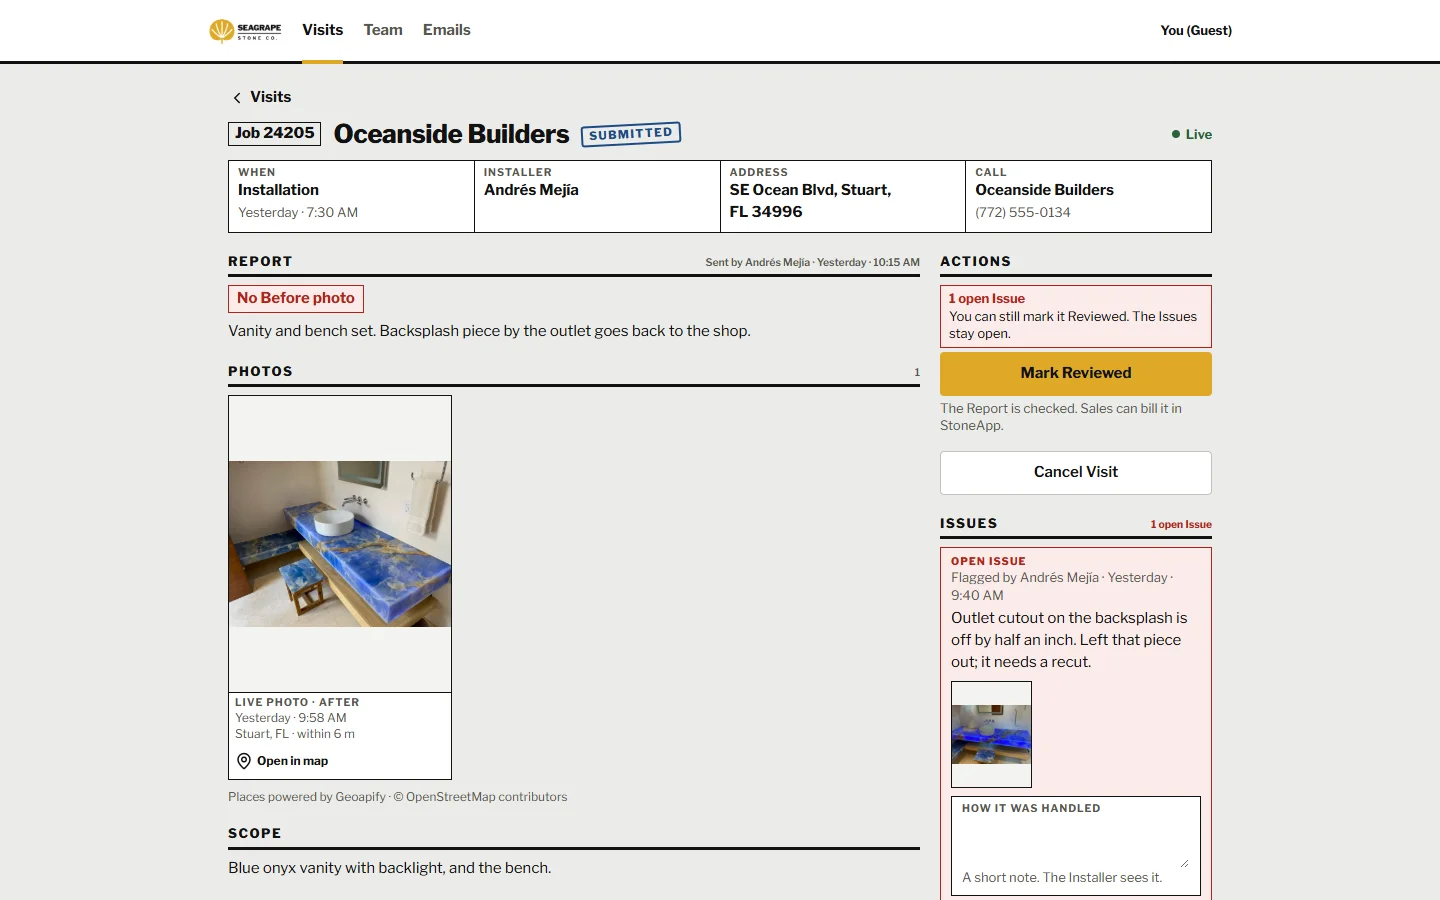
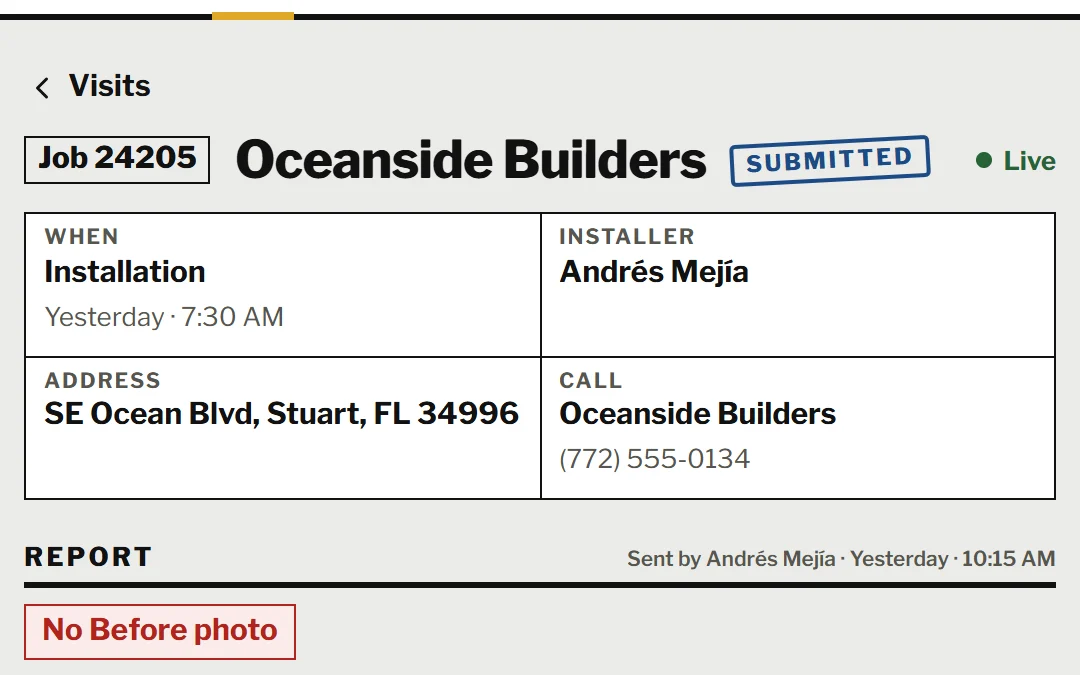
Field Photo Reports and Meetup posters cut from the newer phone-shaped pictures
The desktop captures of both apps have wide empty sides (Meetup is one phone-width column; Field Photo Reports is a centered column on gray). The Oct 5 feed pictures show the phone layout, so a 16:10 cut from their top fills the frame. Alt text and PLAYBOOK notes updated to match.

diff --git a/content/work.ts b/content/work.ts
@@ -130,10 +130,10 @@ export const work: WorkEntry[] = [
     // landing page, and only its two buttons sign a visitor in —
     // DEMO-STANDARD's "a link opens the landing page" rule.
     url: 'https://field-photo-reports.vercel.app',
-    // 1440x900, the app's own `showcase/visit-desktop-light.png`, taken from
-    // the Seagrape demo with `tools/capture` on 2026-10-05. The demo "Guest"
-    // label is in it on purpose: it is an honest capture, and demo mode is by
-    // design.
+    // 1080x675, the top of the app's own `showcase/visit-feed-light.png` (cut at
+    // y=108), taken from the Seagrape demo with `tools/capture` on 2026-10-05.
+    // The feed picture shows the app in its phone layout, so it fills a 16:10
+    // frame; the desktop picture left wide gray sides. Swapped 2026-10-06.
     poster: '/media/field-reports-thumb.webp',
     // The home hero (#20). `field-reports-hero.webp` is 1440x810, the top of the
     // same office Visit view, cropped from the first frame of the loop
@@ -151,7 +151,7 @@ export const work: WorkEntry[] = [
         alt: 'Field Photo Reports Installer app on a phone: today’s Visit, an upcoming Visit, and past Visits with their state',
       },
     },
-    alt: 'Field Photo Reports office view of one Visit: a stamped Live photo, an open Issue flagged by the Installer, and the Mark Reviewed button',
+    alt: 'Field Photo Reports office view of one Visit: the job, customer, Installer and address, a Submitted stamp, and a Report flagged No Before photo',
     embeddable: false,
     updatedAt: REFRESH_2026_10_01,
     // Rewritten 2026-09-28, in sync with COPY.md. The client stays unnamed, as
@@ -259,12 +259,12 @@ export const work: WorkEntry[] = [
     // nowhere else on the site — `content/work.test.ts` fails if it leaks into
     // any other field.
     url: 'https://meet4weed.vercel.app',
-    // 1440x900, from the app's own `showcase/sesh-desktop-light.png`, taken in
-    // the demo: every member and meetup in it is invented. Its brand name shows
-    // in the app's own header, as the client's logo does in the Field Photo
-    // Reports poster: an honest capture, not copy.
+    // 1080x675, cut from the app's own `showcase/list-feed-light.png` (at y=270),
+    // taken in the demo: every member and meetup in it is invented. The app is
+    // one phone-width column, so its desktop picture left wide empty sides; the
+    // feed picture fills the frame. Swapped 2026-10-06.
     poster: '/media/meetup-thumb.webp',
-    alt: 'Private Meetup App list view: category filters, a search box, and a meetup card with its time, neighborhood and spots left, and no exact address shown',
+    alt: 'Private Meetup App list view: category filters, a search box, a List and Map switch, and the first meetup card with its date and time',
     embeddable: false,
     updatedAt: REFRESH_2026_10_01,
     // Written 2026-09-29 (#13 pass 2), in sync with COPY.md, from the app's

diff --git a/docs/PLAYBOOK.md b/docs/PLAYBOOK.md
@@ -175,10 +175,10 @@ Current set, all `.webp`:
 - `field-reports-hero.webp` — Field Photo Reports, **the home hero (16:9)**, from 2026-10-02 (#20). 1440×810, the top of the office Visit view, cropped from the first frame of the loop. With it: `field-reports-phone.webp` (780×1250, the Installer app's Visits list, cropped from the app's `showcase/` phone picture) and the loop `field-reports-hero.mp4` / `.webm` (1440×900, 4.5 s, made by `tools/capture`). All real captures, never restyled.
 - `sarah-poster.webp` — AI Voice Receptionist, was the hero until 2026-10-02 and is **unused by the hero now.** Real desktop dashboard: customer profile, live conversation feed, confirmation email. 1600×900. Still wired as `heroPoster` on its entry in `content/work.ts`, so it only shows if that entry is made the hero again.
 - `sarah-thumb.webp` — AI Voice Receptionist, **compact 16:10 contexts** (case-study row, detail page). **Left as it was on 2026-10-01.** The new capture set (`tools/capture`) shows the client's name on every voice picture, and the voice page keeps the client unnamed, so none was used. This file shows the CRM-sync panel and a tool name; see KNOWN_GAPS. It replaces `sarah-project-thumb.webp`, which was never documented here and was a crop of the retired phone-call simulator — a violation of this section's own hard rule, not merely a naming gap. `bun run check:media` fails the build until the file lands, which is the guard working as intended.
-- `field-reports-thumb.webp` — Field Photo Reports v2. 1440×900, cropped from the app's own `showcase/office-visit-desktop-light.png`: one Visit with a stamped Live photo, an open Issue and Mark Reviewed. Replaced `field-ops-thumb.webp` (v1) on 2026-09-28. **Re-captured 2026-10-01** by `claude-config/tools/capture` (`visit-desktop-light.webp`, used as is, no crop or re-encode). The client's logo is in it, as before.
+- `field-reports-thumb.webp` — Field Photo Reports v2. 1440×900, cropped from the app's own `showcase/office-visit-desktop-light.png`: one Visit with a stamped Live photo, an open Issue and Mark Reviewed. Replaced `field-ops-thumb.webp` (v1) on 2026-09-28. **Re-captured 2026-10-01** by `claude-config/tools/capture` (`visit-desktop-light.webp`, used as is, no crop or re-encode). The client's logo is in it, as before. **Swapped 2026-10-06** to the top of the app's `showcase/visit-feed-light.png`: 1080×675, cut at y=108, because the desktop picture left wide gray sides. This slot is now 1080×675, not 1440×900.
 - `squid-ink.webp` — AI Meeting Notes & Transcription. 1440×900. Keeps the source repo's working name as a filename; the **page never uses that name**, because the product's public name is unconfirmed upstream. Replaced `crunch-wrap-dashboard.webp` on 2026-09-04. **Re-captured 2026-10-01** by `tools/capture` (`note-desktop-light.webp`, used as is): a real 3-minute note with its summary, takeaways, action items and cited transcript lines. **Swapped 2026-10-06** to the newer `note-desktop-light.png` in the app's `showcase/` (same view, converted to webp at quality 82): a different note, with no group name in its title.
 - `tekguyz-crm.webp` — Lead & Pipeline CRM. 1440×900. **Read this before writing any copy near it:** it is the real product's real Reports view (re-captured 2026-10-01 by `tools/capture`, `reports-desktop-light.webp`, used as is), but the tenant shown is `Demo Workspace` and every figure on it is **seeded verification data, not a client result.** It satisfies this section's hard rule (real production UI, not a simulator) and it does **not** license a single number on the page.
-- `meetup-thumb.webp` — Private Meetup App. 1440×900, from the app's own `showcase/sesh-desktop-light.png`: one meetup, with the address hidden until the host approves. Taken in the demo, so every person in it is invented. The app's name shows in its own header, as the client's logo does in `field-reports-thumb.webp`. Added 2026-09-29 (#13 pass 2). **Re-captured 2026-10-01** by `tools/capture` (`list-desktop-light.webp`, used as is): the list view. The capture set's map and meetup pictures are phone-shaped (780×1688) and would crop to a fragment in this 16:10 slot, so they wait for the gallery (#11). Its dates (Oct 1 to 4) go stale within days. **Swapped 2026-10-06** to a crop of the app's `showcase/seshes-desktop-light.png`: 816×510 at (312, 0), the same list view without the empty sides. This slot is now 816×510, not 1440×900. The app itself is one phone-width column on a desktop screen (tekguyz/meet4weed#125), so some empty side space stays until it gets wide layouts. Its dates (Sep 29 to Oct 2) are older than before and go stale the same way.
+- `meetup-thumb.webp` — Private Meetup App. 1440×900, from the app's own `showcase/sesh-desktop-light.png`: one meetup, with the address hidden until the host approves. Taken in the demo, so every person in it is invented. The app's name shows in its own header, as the client's logo does in `field-reports-thumb.webp`. Added 2026-09-29 (#13 pass 2). **Re-captured 2026-10-01** by `tools/capture` (`list-desktop-light.webp`, used as is): the list view. The capture set's map and meetup pictures are phone-shaped (780×1688) and would crop to a fragment in this 16:10 slot, so they wait for the gallery (#11). Its dates (Oct 1 to 4) go stale within days. **Swapped again 2026-10-06** to the top of the app's `showcase/list-feed-light.png`: 1080×675, cut at y=270. The feed picture is the phone layout, so it fills the frame; the desktop picture is one narrow column with empty sides. This slot is now 1080×675, not 1440×900. Its dates (Oct 6) go stale within days.
 - `advantage-teams-thumb.webp` — Team Performance
 
 **Deleted 2026-09-04** along with their entries: `crunch-wrap-dashboard.webp`, `meeting-organizer-thumb.webp`, `dragonfly-nica-thumb.webp`, `executive-detailer-thumb.webp`. **Deleted 2026-09-28 (#13):** `field-ops-thumb.webp` and `shopify-configurator.webp`. They are gone from `public/media/`, which is deliberate — `check:media` fails the build on a missing poster, so a re-added entry cannot ship a blank frame.
